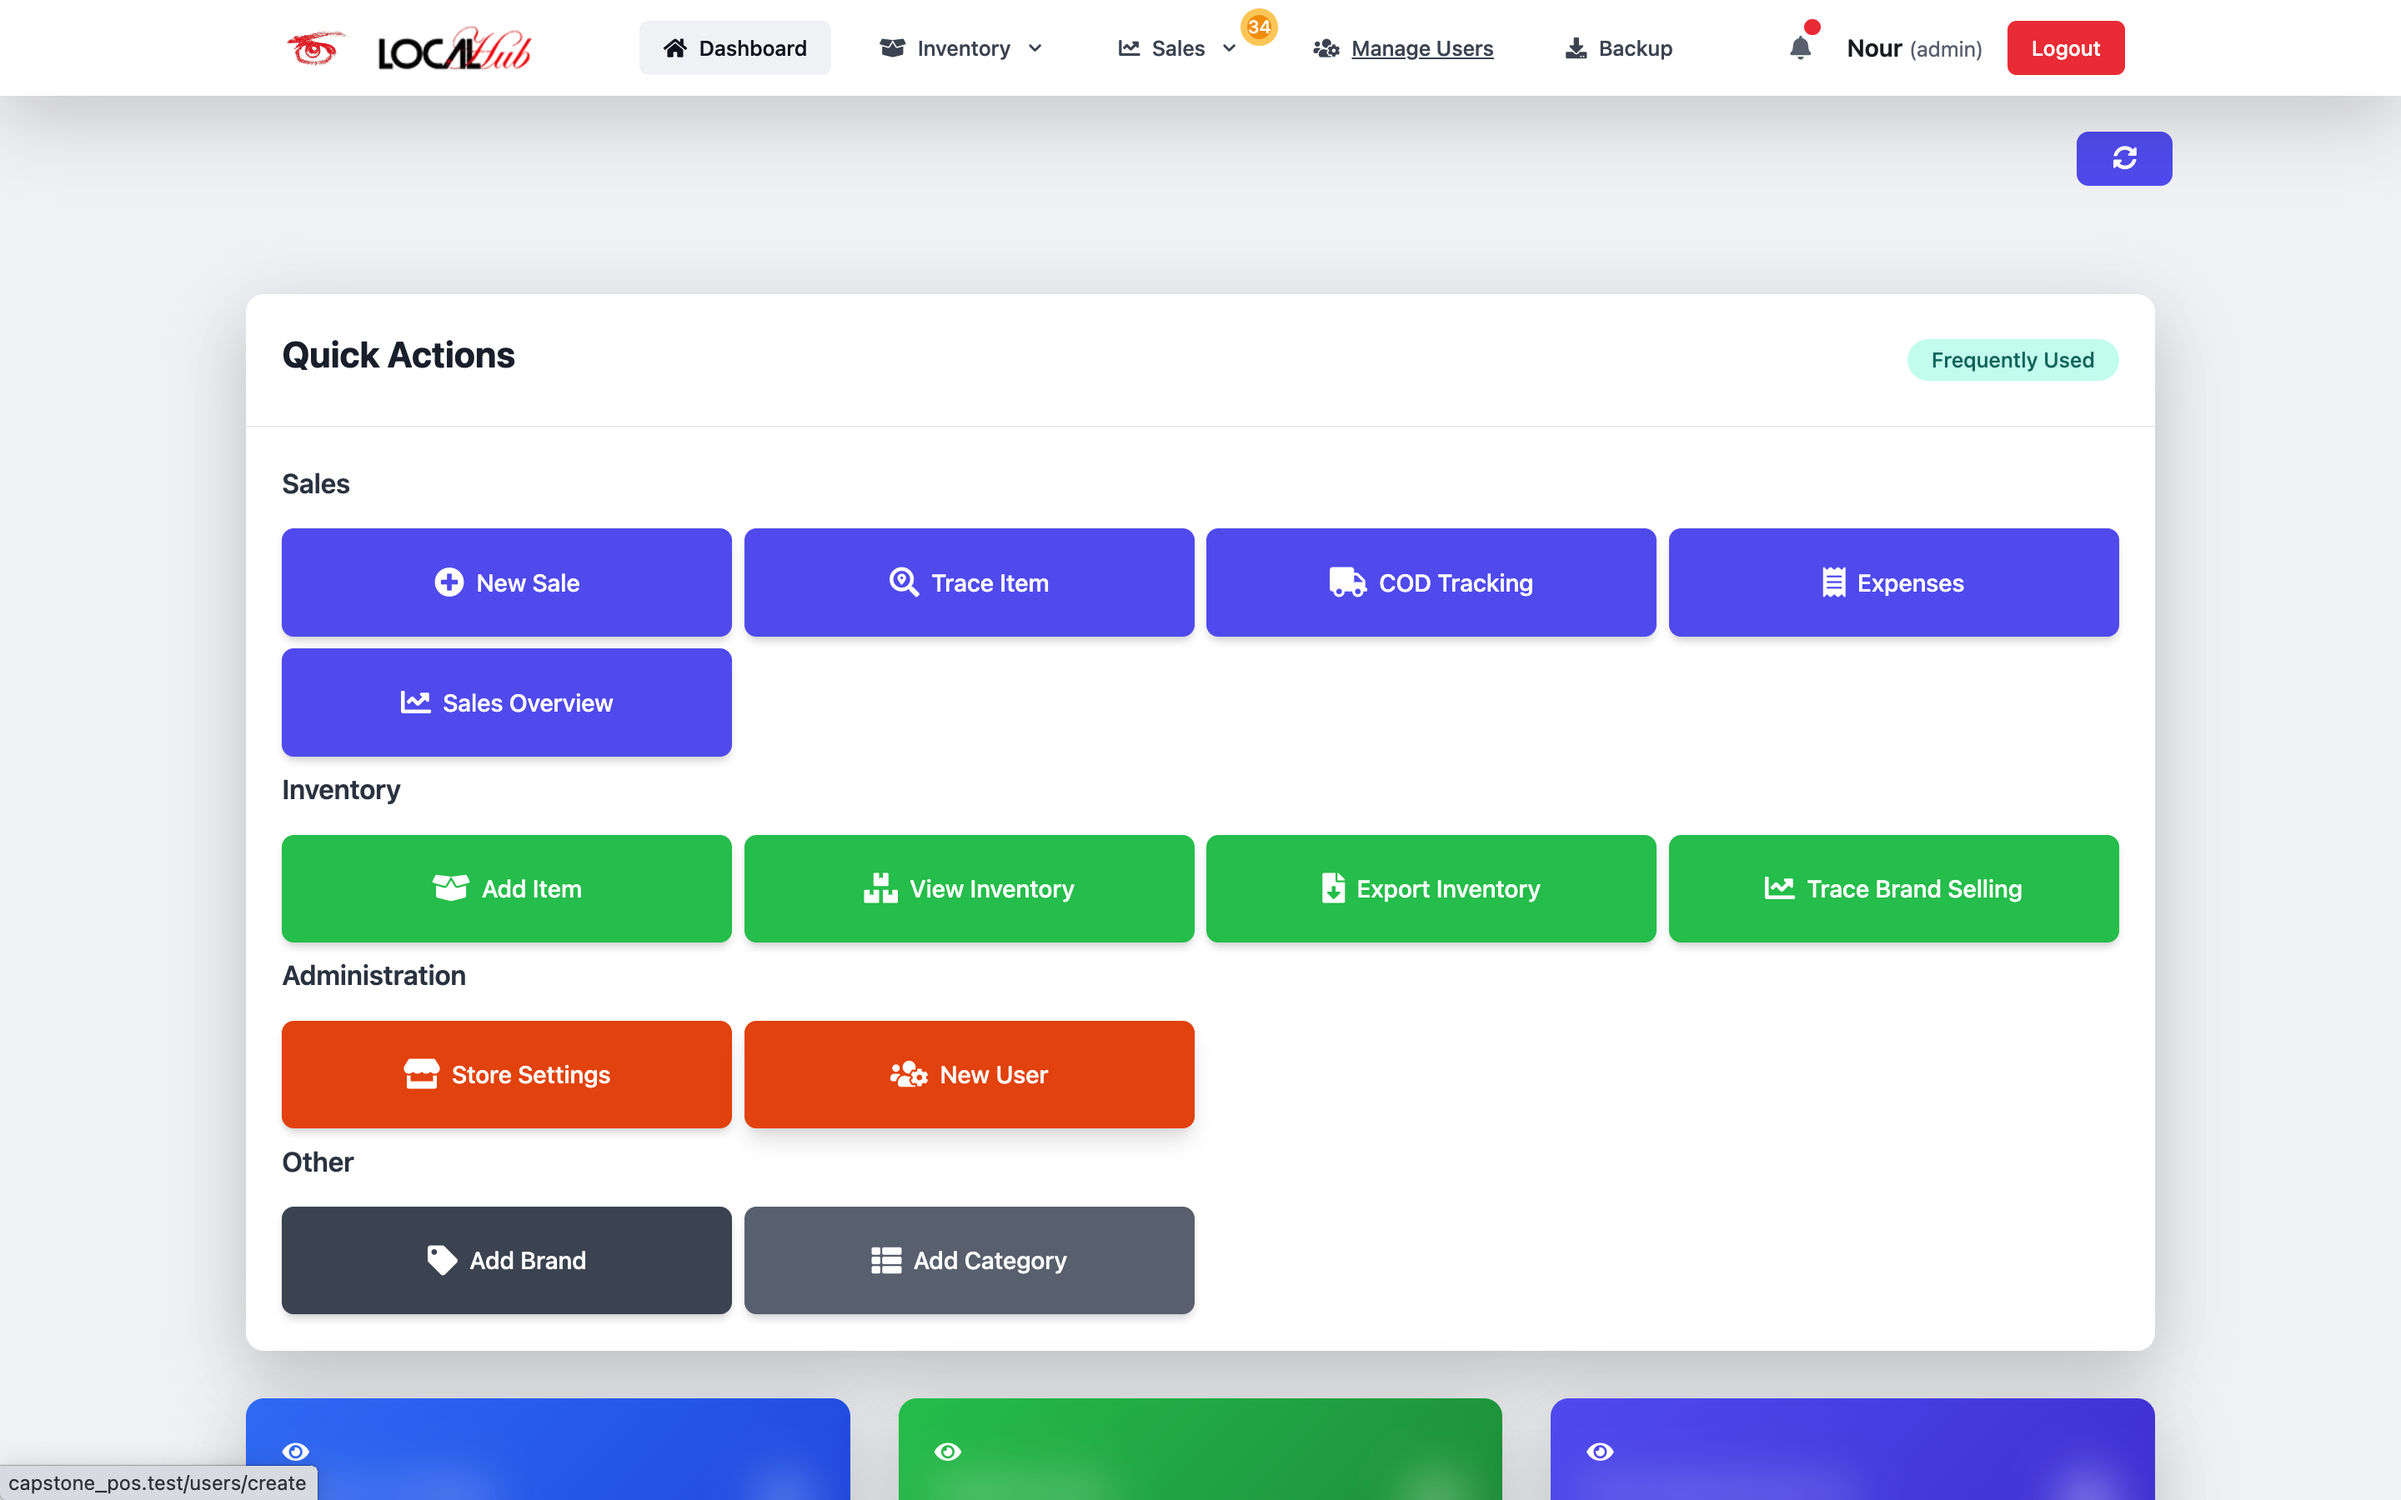
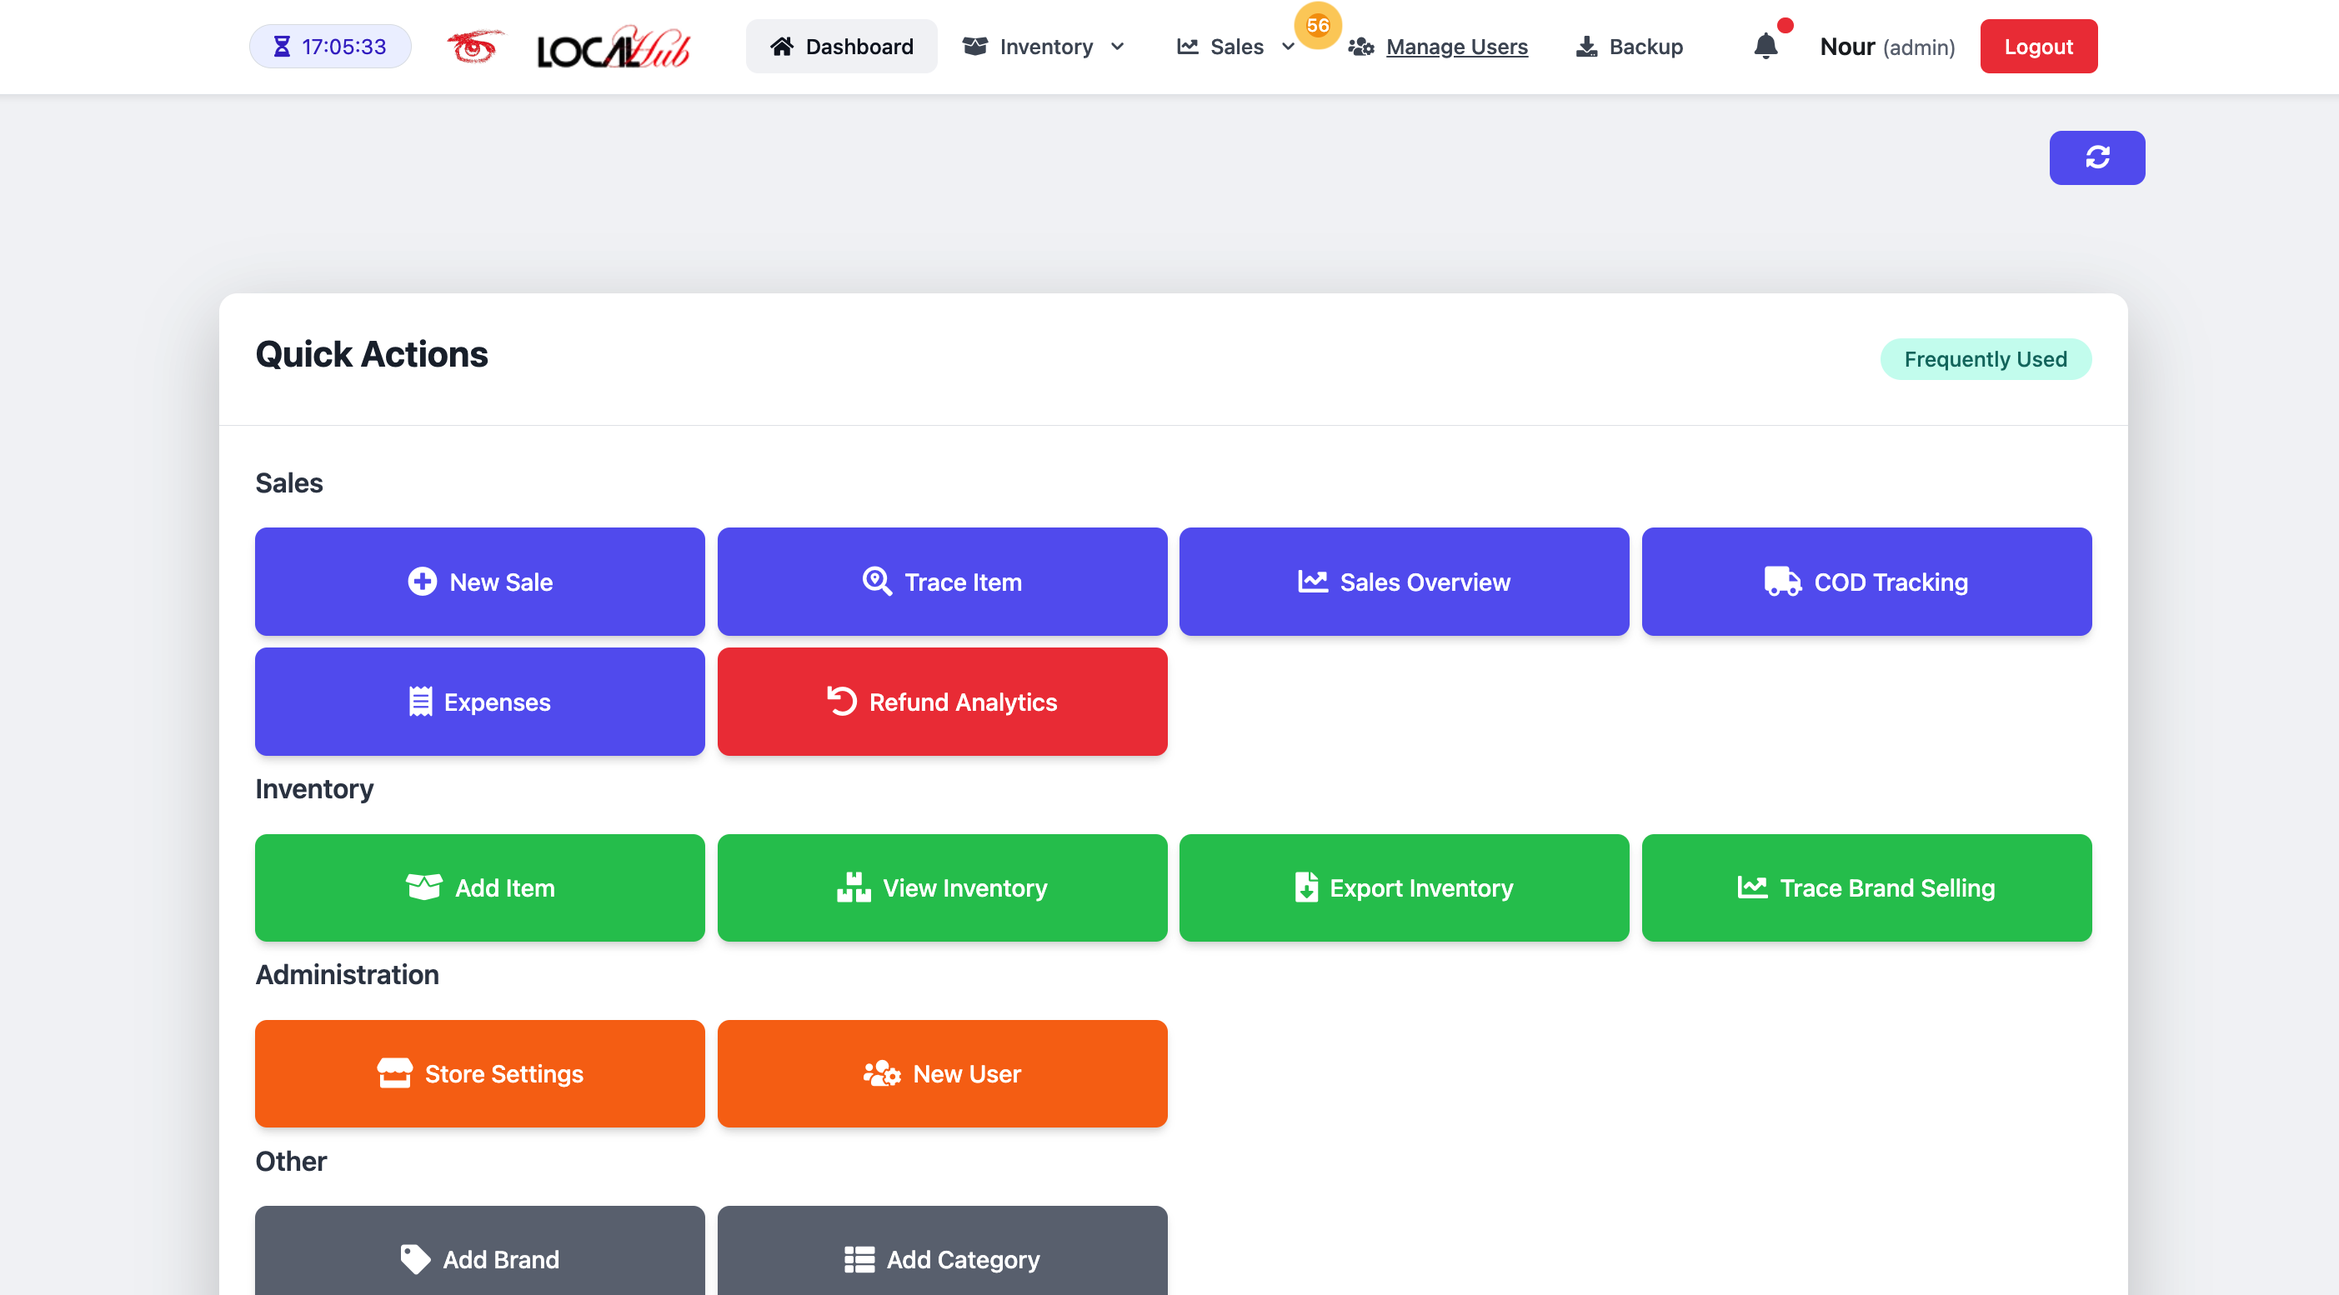
Readme Updates

diff --git a/README.md b/README.md
@@ -25,6 +25,28 @@ LocalHub POS is an advanced Point of Sale solution built on Laravel that combine
 
 <div style="display: flex; justify-content: space-between; margin-bottom: 20px;">
   <div style="flex: 1; margin-right: 10px;">
+    <img src="public/screenshots/refund-analytics.png" alt="Refund Analytics" width="100%">
+    <p align="center"><em>Refund Analytics - KPIs, recent refunds, and trends</em></p>
+  </div>
+  <div style="flex: 1; margin-left: 10px;">
+    <img src="public/screenshots/cod-tracking.png" alt="COD Tracking" width="100%">
+    <p align="center"><em>COD Tracking - Manage cash-on-delivery orders</em></p>
+  </div>
+</div>
+
+<div style="display: flex; justify-content: space-between; margin-bottom: 20px;">
+  <div style="flex: 1; margin-right: 10px;">
+    <img src="public/screenshots/expenses.png" alt="Expenses" width="100%">
+    <p align="center"><em>Expenses - Track store expenses</em></p>
+  </div>
+  <div style="flex: 1; margin-left: 10px;">
+    <img src="public/screenshots/inventory-alerts.png" alt="Stock Alerts" width="100%">
+    <p align="center"><em>Low Stock Alerts - Quick access notification drawer</em></p>
+  </div>
+</div>
+
+<div style="display: flex; justify-content: space-between; margin-bottom: 20px;">
+  <div style="flex: 1; margin-right: 10px;">
     <img src="public/screenshots/pos-screen.png" alt="POS Screen" width="100%">
     <p align="center"><em>POS Interface - Streamlined checkout process</em></p>
   </div>
@@ -52,6 +74,8 @@ LocalHub POS is an advanced Point of Sale solution built on Laravel that combine
 - **Intuitive Sales UI**: Fast checkout process with product search and barcode scanning
 - **Discount System**: Apply percentage or fixed discounts to entire sales or individual items
 - **Returns & Exchanges**: Process returns and exchanges with full tracking
+- **Refund Analytics**: Dashboard KPIs, refund rate, and recent refunds list
+- **COD Tracking Board**: Dedicated view to track COD orders and statuses
 - **Gift Items**: Add complementary items to any purchase
 - **Cash Drawer Control**: Automatic cash drawer opening during sales
 - **Thermal Receipt Printing**: Direct integration with thermal receipt printers
@@ -62,6 +86,9 @@ LocalHub POS is an advanced Point of Sale solution built on Laravel that combine
 - **Product Variants**: Support for products with multiple variants (size, color)
 - **Parent-Child Relationships**: Group related products under a parent item
 - **Bulk Import/Export**: Import/export inventory data via Excel/CSV
+- **Variant Bulk Editor**: Update quantities for multiple variants inline, then save all
+- **Add Variant Wizard**: Quickly add size/color variants right from the item edit screen
+- **Low Stock Alerts Drawer**: Notification bell with quick links to at-risk items
 
 ### 🏷 Barcode System
 - **Automatic Generation**: Generate barcodes for all inventory items
@@ -87,11 +114,15 @@ LocalHub POS is an advanced Point of Sale solution built on Laravel that combine
 - **Payment Method Reports**: Track sales by payment method
 - **Brand Performance**: Analyze sales performance by brand
 - **Excel/CSV Export**: Export all reports in various formats
+- **Refund Analytics**: Refund KPIs, refund rate, and recent refund activity
+- **Payment Breakdown Widgets**: Daily and monthly payment method breakdowns
+- **Top Selling Brands (GOATS)**: All-time and monthly leaders with trends
 
 ### 💵 Cash Management
 - **Cash Tracking**: Monitor cash drawer contents
 - **Cash Drawer Control**: Open cash drawer from the system
 - **Payment Recording**: Track all payment types
+- **Expenses Module**: Record and analyze operating expenses
 
 ### ⚙ Store Settings
 - **Customizable Branding**: Configure store name, logo, and social media details
@@ -110,6 +141,7 @@ LocalHub POS is an advanced Point of Sale solution built on Laravel that combine
 - **Role-based Access Control**: Different permission levels for Admins, Managers, and Cashiers
 - **Input Validation**: Secure form processing and data validation
 - **CSRF Protection**: Prevention of cross-site request forgery
+- **Session Heartbeat**: Lightweight keep-alive to prevent unexpected logouts while in use
 
 ### 🖨 Printing Technology
 - **ESC/POS Commands**: Industry standard for thermal receipt printers
@@ -159,6 +191,13 @@ This project leverages a modern tech stack:
 
 ### Desktop Application
 - **Electron.js** - For wrapping the web app as a desktop application
+
+## ✨ UX & Productivity Enhancements
+- **Modern Dashboard UI**: Glassmorphism navbar, gradients, and improved visual hierarchy
+- **Quick Actions**: One-click navigation to the most used operations
+- **Sticky Action Bars**: Important actions remain visible for long forms
+- **Session Timer**: Live session duration timer in the navbar
+- **Return-to-List Flow**: After editing, return to your filtered item list automatically
 
 ## 🏗 Project Structure
 
@@ -219,6 +258,17 @@ Future plans for LocalHub POS include:
 - [ ] Enhanced reporting and analytics
 
 ## 📜 Changelog
+
+### v1.1.0 (September 2025)
+- Modernized dashboard UI with glass effects, gradients, and improved layout
+- Refunds now discount-aware; totals recomputed correctly in reports and analytics
+- Added Refund Analytics widget with KPIs and recent refunds
+- COD Tracking badge and view improvements
+- Expenses module added to Quick Actions and navigation
+- Variant bulk quantity editor and Add Variant wizard on item edit
+- Low stock alerts notification drawer
+- Session keep-alive heartbeat and visible session timer
+- “Return to filtered list” after editing items
 
 ### v1.0.0 (April 2025)
 - Initial release with core POS functionality
